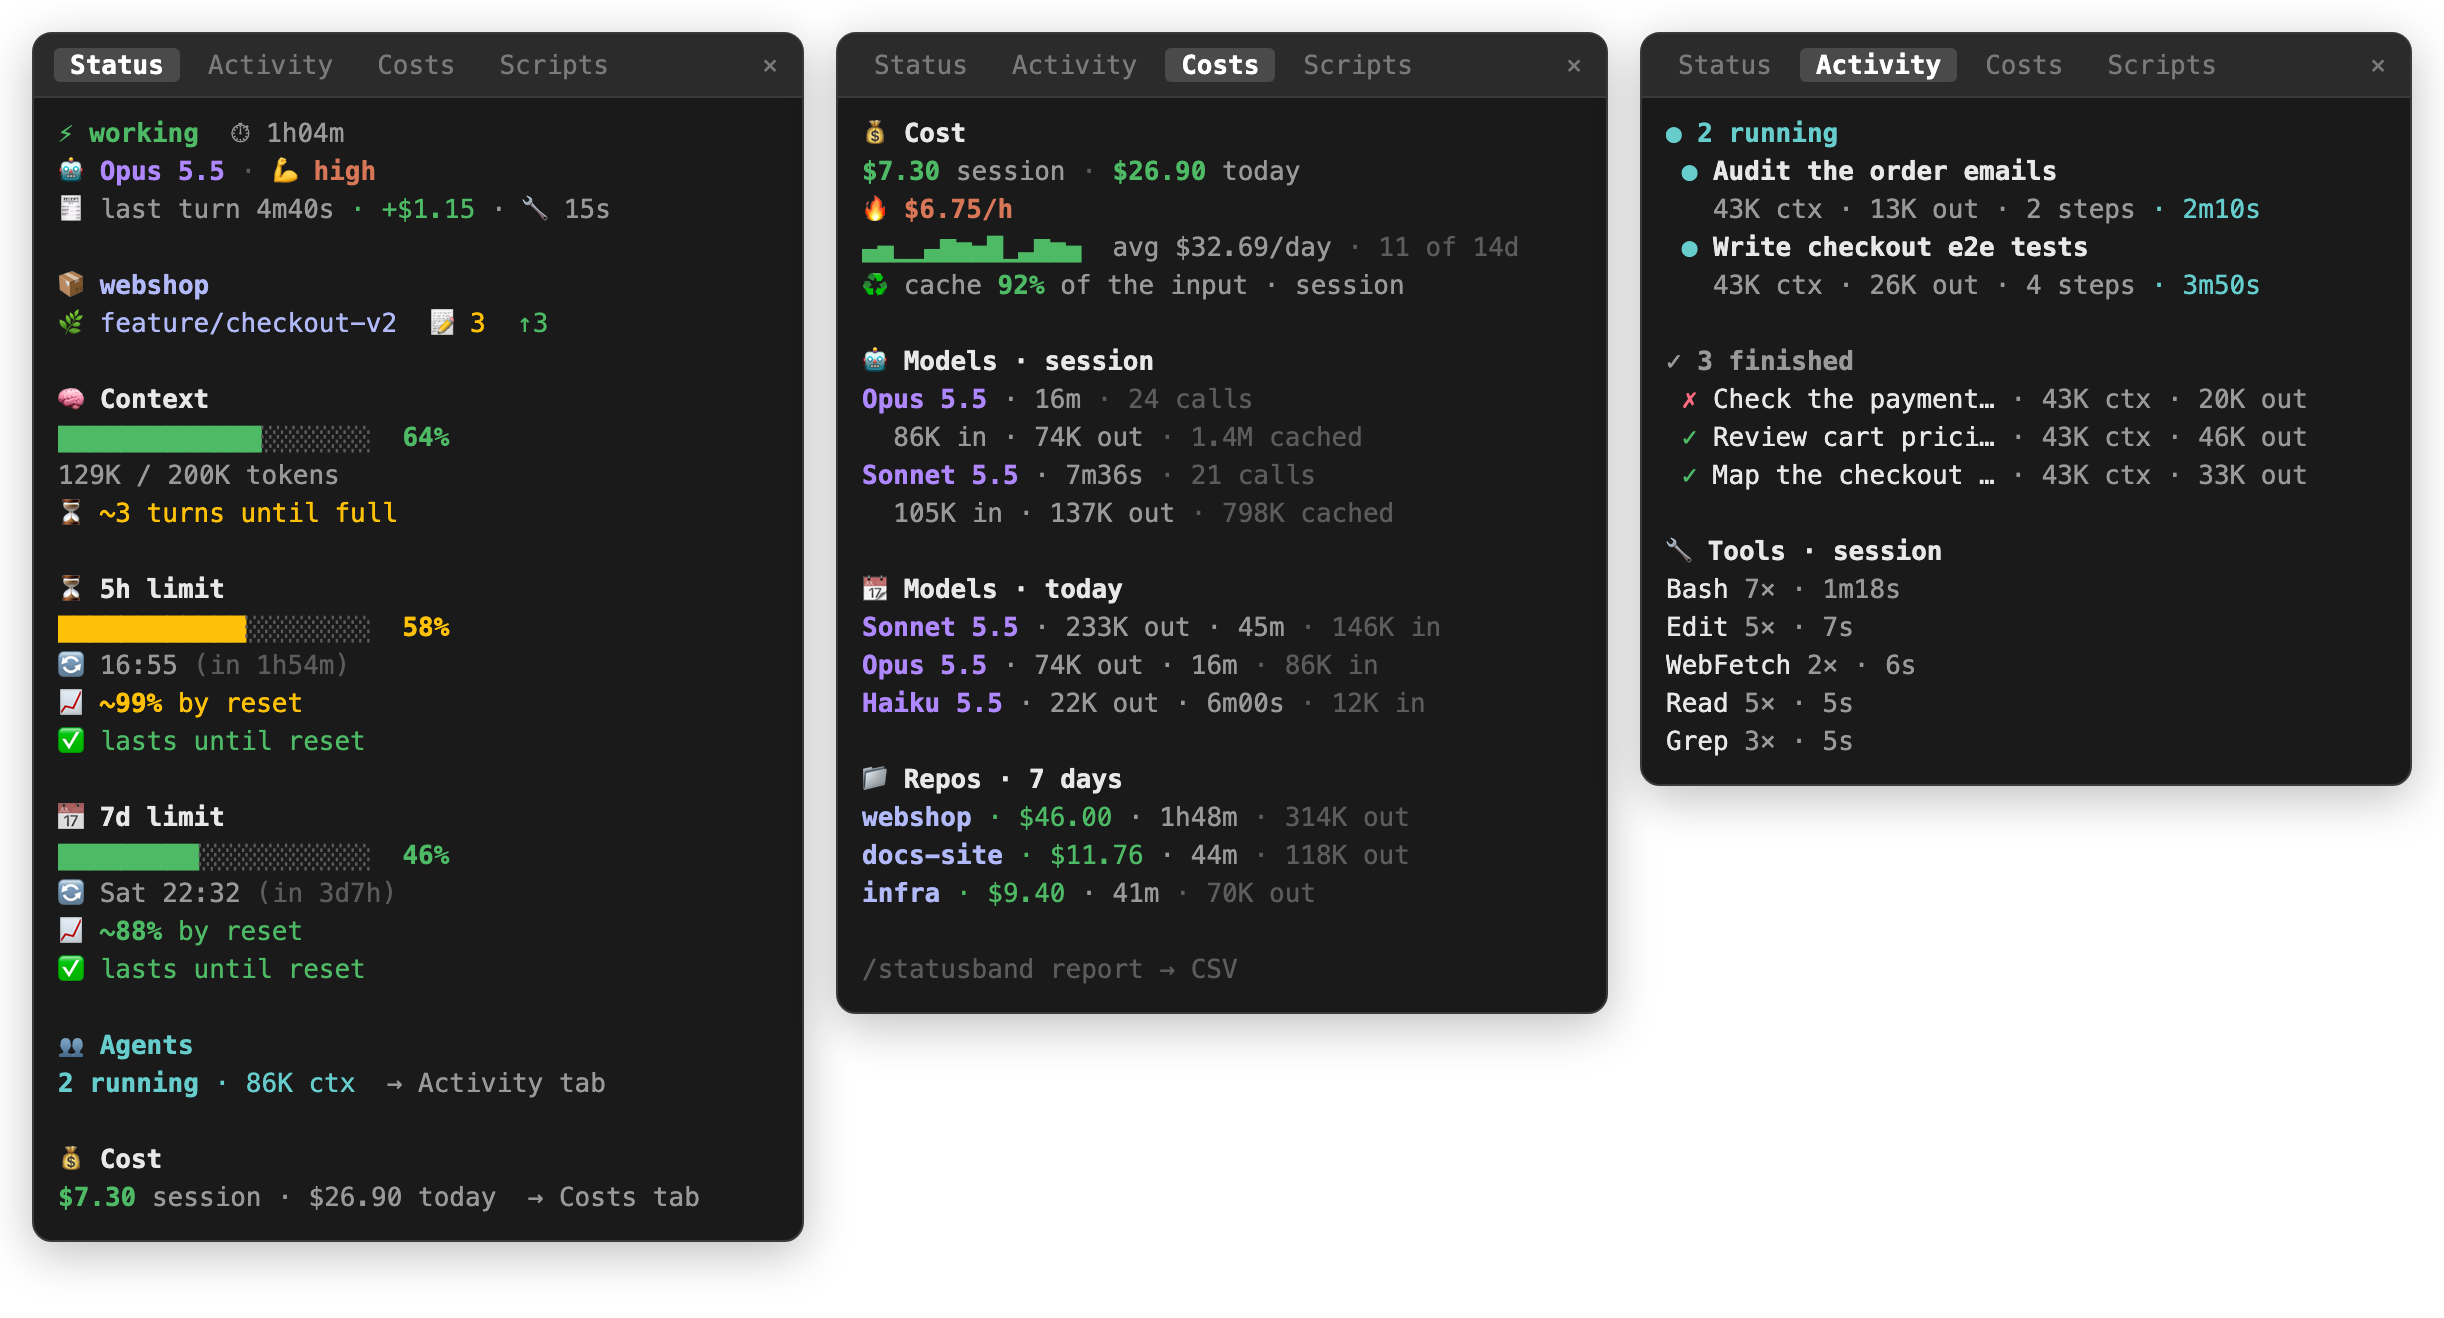
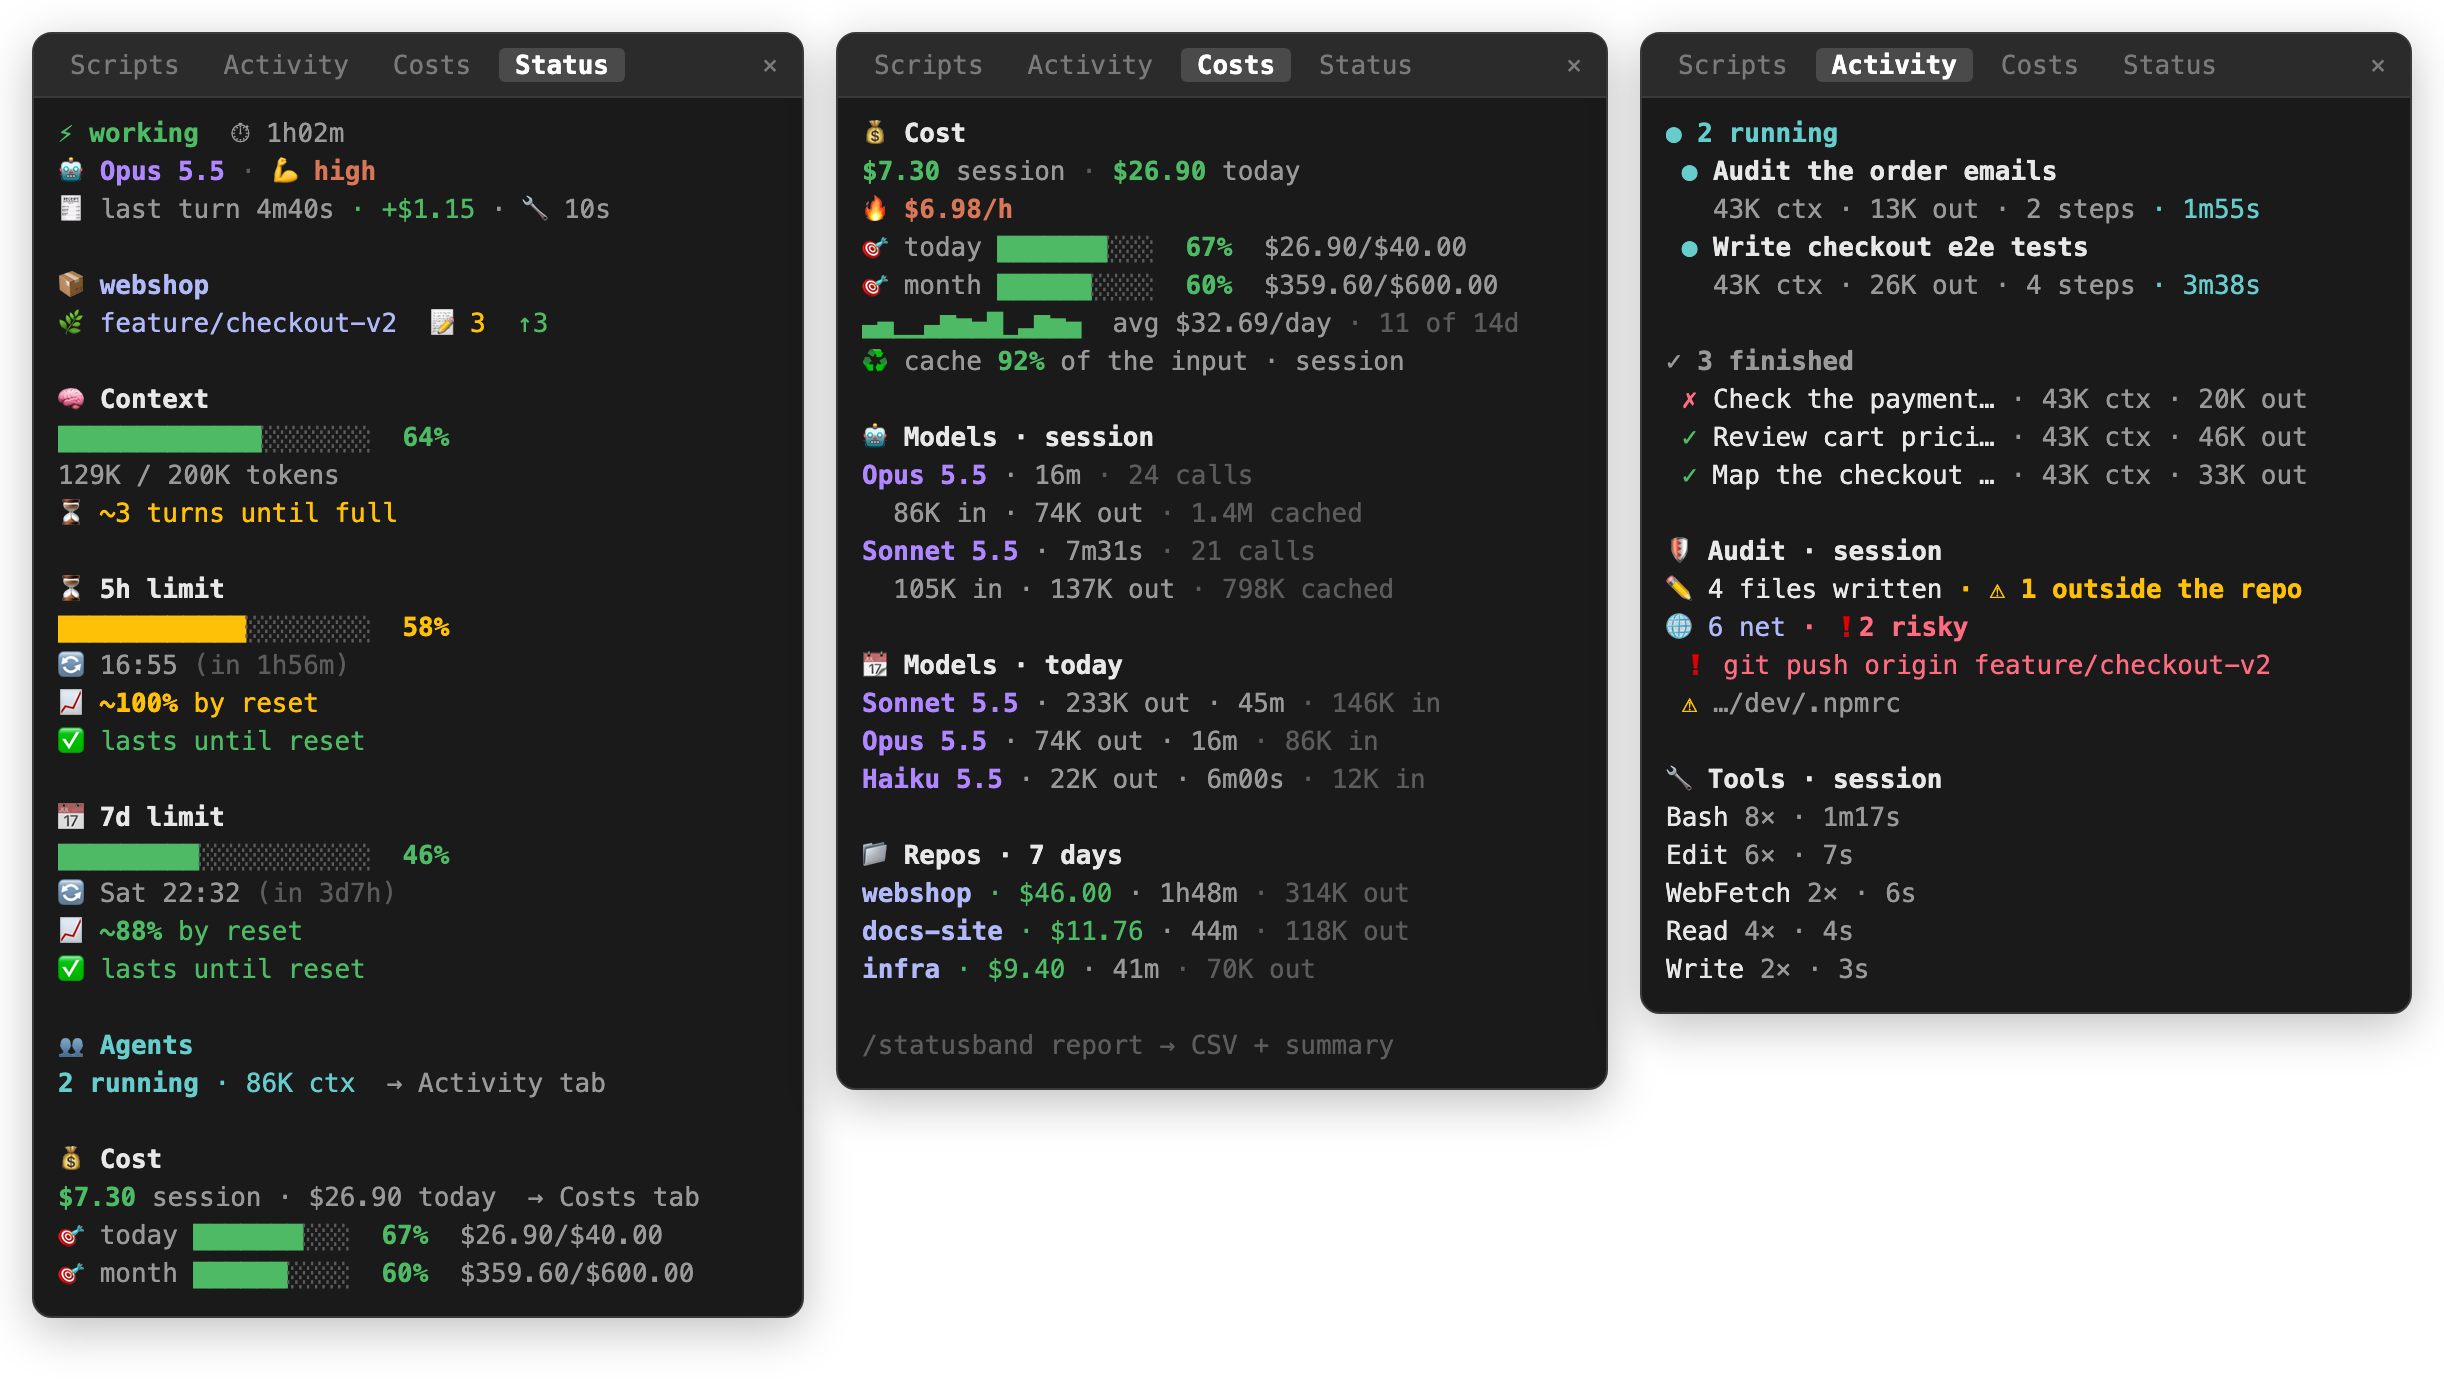
statusband 0.5.1: the tabs open together in a fixed order, the status pane last; screenshots show the budget and the audit

diff --git a/hooks/register.js b/hooks/register.js
@@ -1020,35 +1020,32 @@ function draw($, e, L, cols) {
   })
 }
 
-// Opened first, so the status pane opened after it is the tab on show.
-async function openScriptsPane($) {
-  if (scriptsPaneOpen || scriptsClosedByUser || !scripts.length) return
-  try {
-    const r = await $.ui.open({ id: SCRIPTS_PANE, title: 'Scripts', columns: PANE_COLUMNS, rows: PANE_ROWS })
-    scriptsPaneOpen = r?.isPlaced !== false
-  } catch {}
-}
-
-async function openAgentsPane($) {
-  if (agentsPaneOpen || agentsClosedByUser || (!agents.size && !Object.keys(toolUse).length)) return
-  try {
-    const r = await $.ui.open({ id: AGENTS_PANE, title: 'Activity', columns: PANE_COLUMNS, rows: PANE_ROWS })
-    agentsPaneOpen = r?.isPlaced !== false
-  } catch {}
-}
-
-async function openCostsPane($) {
-  if (costsPaneOpen || costsClosedByUser) return
-  try {
-    const r = await $.ui.open({ id: COSTS_PANE, title: 'Costs', columns: PANE_COLUMNS, rows: PANE_ROWS })
-    costsPaneOpen = r?.isPlaced !== false
-  } catch {}
-}
+// The dock lays tabs out in the order they open and shows the one opened last, and no call moves
+// a tab. So the tabs always open together, in this order, the status pane last; when one is missing
+// from the row (closed by hand, then asked for again), those after it close and reopen behind it.
+const TABS = [
+  { id: SCRIPTS_PANE, title: 'Scripts', isOpen: () => scriptsPaneOpen, setOpen: (v) => (scriptsPaneOpen = v), isClosedByUser: () => scriptsClosedByUser },
+  { id: AGENTS_PANE, title: 'Activity', isOpen: () => agentsPaneOpen, setOpen: (v) => (agentsPaneOpen = v), isClosedByUser: () => agentsClosedByUser },
+  { id: COSTS_PANE, title: 'Costs', isOpen: () => costsPaneOpen, setOpen: (v) => (costsPaneOpen = v), isClosedByUser: () => costsClosedByUser },
+]
 
 async function openPane($) {
-  await openScriptsPane($)
-  await openAgentsPane($)
-  await openCostsPane($)
+  const wanted = TABS.filter((t) => !t.isClosedByUser())
+  const gap = wanted.findIndex((t) => !t.isOpen())
+  if (gap >= 0) {
+    for (const t of wanted.slice(gap + 1)) {
+      if (!t.isOpen()) continue
+      await $.ui.close({ id: t.id }).catch(() => {})
+      t.setOpen(false)
+    }
+    if (paneOpen?.isPlaced) await $.ui.close({ id: PANE }).catch(() => {})
+    for (const t of wanted.slice(gap)) {
+      try {
+        const r = await $.ui.open({ id: t.id, title: t.title, columns: PANE_COLUMNS, rows: PANE_ROWS })
+        t.setOpen(r?.isPlaced !== false)
+      } catch {}
+    }
+  }
   try {
     paneOpen = await $.ui.open({ id: PANE, title: 'Status', columns: PANE_COLUMNS, rows: PANE_ROWS })
   } catch (err) {
@@ -1079,7 +1076,6 @@ export function register(on) {
     $.clock.every(GIT_EVERY_MS, async () => {
       await refreshGit($)
       await refreshScripts($)
-      if (Date.now() - paneSeenAt < PANE_STALE_MS) await openScriptsPane($)
       $.ui.invalidate('ui.render')
     })
     await refreshLedger($).catch(() => {})
@@ -1162,8 +1158,6 @@ export function register(on) {
         outTokens: 0,
         steps: 0,
       })
-      // The dock is up: the agent gets its tab now rather than at the next open.
-      if (Date.now() - paneSeenAt < PANE_STALE_MS) void openAgentsPane($)
       $.ui.invalidate('ui.render')
     }
     return started
@@ -1205,11 +1199,8 @@ export function register(on) {
     const done = await next(e)
     if (done?.deny === undefined && e.tool) {
       const ms = Date.now() - t0
-      const first = !Object.keys(toolUse).length
       toolUse = addToolUse(toolUse, String(e.tool), ms, !!done?.isError)
       if (!e.agentId) turnToolMs += ms
-      // The first tool call brings up the Activity tab, as the first agent does.
-      if (first && Date.now() - paneSeenAt < PANE_STALE_MS) void openAgentsPane($)
     }
     try {
       const ev = e.tool ? auditEvent(e, done) : null

diff --git a/tests/statusband.test.ts b/tests/statusband.test.ts
@@ -152,7 +152,7 @@ test('the status pane leaves scripts to their tab; /statusband opens both, statu
   expect(await ui.find({ type: 'Text', text: /deploy\.sh/ })).toBeUndefined()
   await ui.unmount()
   await $.command.run({ command: 'statusband', args: '' } as any)
-  expect(opened).toEqual(['statusband-scripts', 'statusband-costs', 'statusband'])
+  expect(opened).toEqual(['statusband-scripts', 'statusband-agents', 'statusband-costs', 'statusband'])
 })
 
 test('compact view offers the newest script of the session', async ($, on) => {
@@ -290,12 +290,30 @@ test('the Activity tab keeps finished agents in sight when the running ones fill
   await tab.unmount()
 })
 
-test('/statusband opens the Activity tab once there are agents, status last', async ($, on) => {
+test('the tabs open together in a fixed order, status last, and keep it when one comes back', async ($, on) => {
   const opened: string[] = []
-  await setup($, on, undefined, agentBottoms(opened))
-  await twoAgents($)
+  const closed: string[] = []
+  let refuse = 'statusband-agents'
+  await setup($, on, undefined, (on: any) => {
+    agentBottoms()(on)
+    on('ui.open', async (_$: any, e: any) => (opened.push(e.id), { value: { isPlaced: e.id !== refuse } }) as any)
+    on('ui.close', async (_$: any, e: any) => (closed.push(e.id), { value: undefined }) as any)
+  })
   await $.command.run({ command: 'statusband', args: '' } as any)
+  expect(opened).toEqual(['statusband-scripts', 'statusband-agents', 'statusband-costs', 'statusband'])
+  // An agent no longer opens a tab of its own at the end of the row.
+  await twoAgents($)
+  expect(opened.length).toBe(4)
+  // Activity did not take its place: asked again, the tabs after it reopen behind it.
+  refuse = ''
+  opened.length = 0
+  await $.command.run({ command: 'statusband', args: '' } as any)
+  expect(closed).toEqual(['statusband-costs', 'statusband'])
   expect(opened).toEqual(['statusband-agents', 'statusband-costs', 'statusband'])
+  // All in place: a further open only reaches the status pane.
+  opened.length = 0
+  await $.command.run({ command: 'statusband', args: '' } as any)
+  expect(opened).toEqual(['statusband'])
 })
 
 test('files no session claims are the person\'s own: never deleted, no .gitignore written', async ($, on) => {

diff --git a/README.md b/README.md
@@ -24,7 +24,7 @@ Scripts: Claude is asked (a system prompt section) to hand you scripts as files 
   <img alt="The compact view under the prompt" src="docs/compact-light.png">
 </picture>
 
-Where it shows: a sidebar docked beside the transcript in a fullscreen terminal (`/tui fullscreen`) and in the Desktop app; a compact multi-line view under the prompt in the classic renderer, or whenever the sidebar isn't on screen. `/statusband close` hides the sidebar, `/statusband` opens it again. Opened by itself the sidebar needs a 144-column terminal (110 once you've opened it by hand).
+Where it shows: a sidebar docked beside the transcript in a fullscreen terminal (`/tui fullscreen`) and in the Desktop app; a compact multi-line view under the prompt in the classic renderer, or whenever the sidebar isn't on screen. `/statusband close` hides the sidebar, `/statusband` opens it again. Its four tabs open together in a fixed order, Scripts · Activity · Costs · Status, with Status on show; a tab closed by hand and asked for again brings the ones after it back behind it, so the order holds. Opened by itself the sidebar needs a 144-column terminal (110 once you've opened it by hand).
 
 ```bash
 claude plugin test .   # engine-backed tests: the trees validate on terminal and desktop
